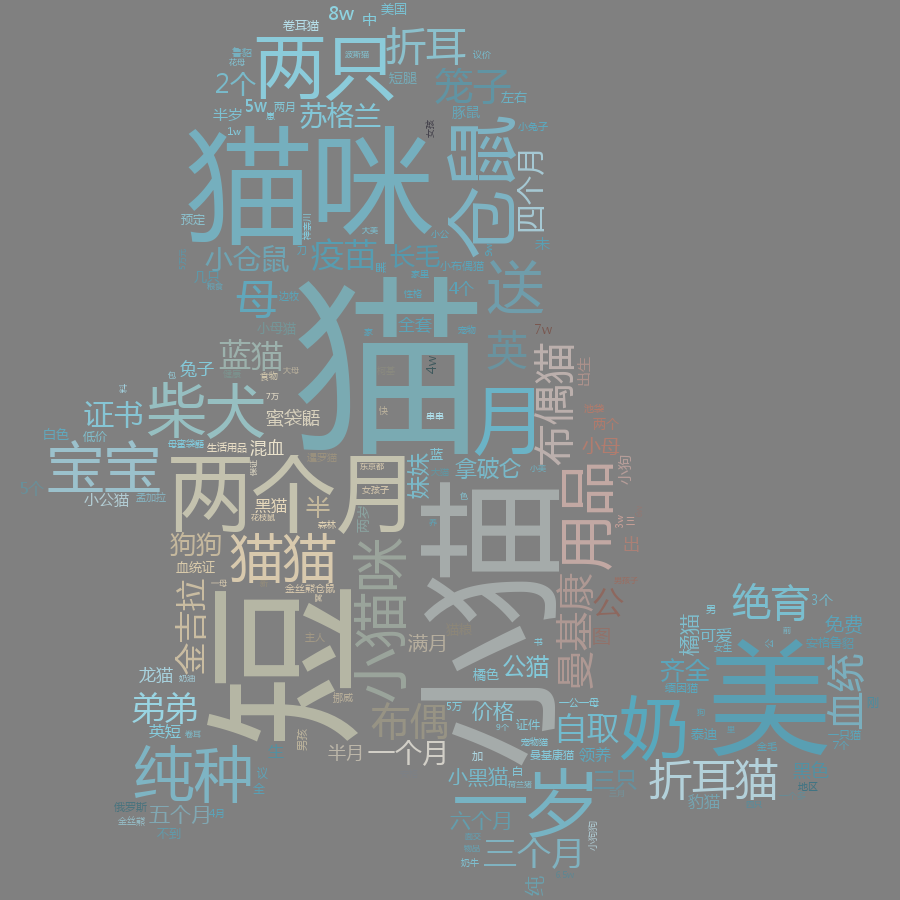
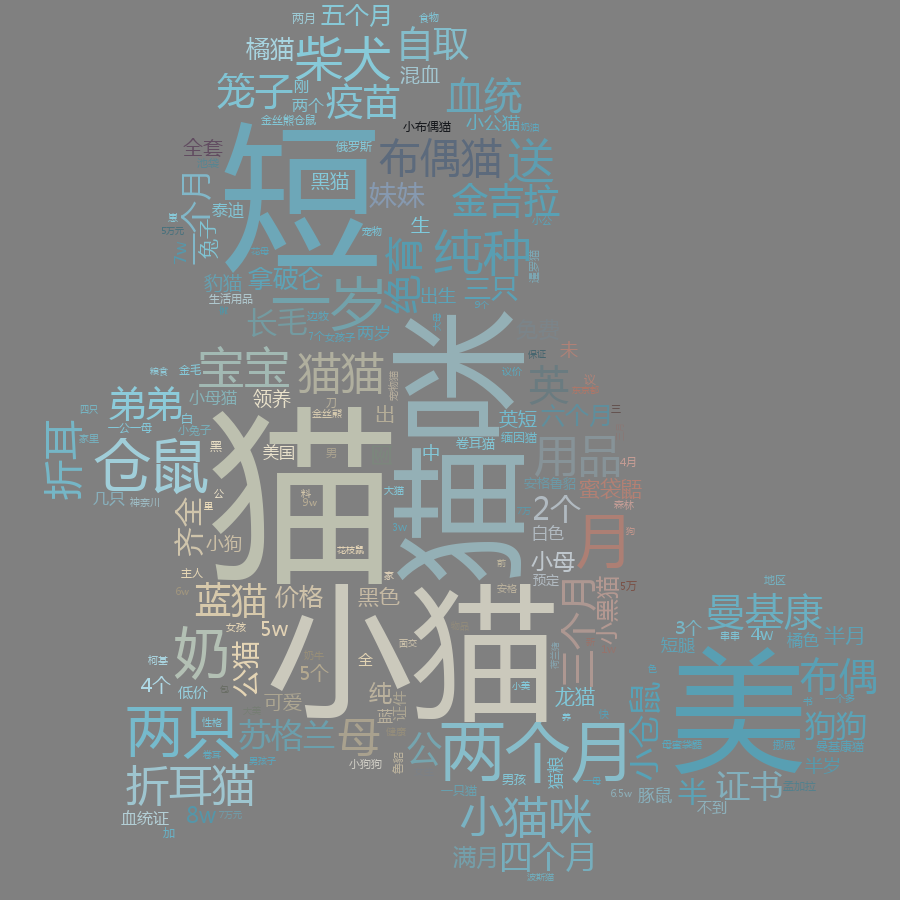
add results

Changed region(s): [[0.0311, 0.0, 0.9956, 0.9956]]

diff --git a/analyzer/analyzer.py b/analyzer/analyzer.py
@@ -7,6 +7,8 @@ import random
 import matplotlib.pyplot as plt
 from collections import defaultdict, Counter
 from scipy.ndimage import gaussian_gradient_magnitude
+import extract_clean
+import seg
 
 
 def create_stopwords(path):
@@ -14,7 +16,8 @@ def create_stopwords(path):
         stop = set([line.rstrip('\n') for line in f])
     stop.update(['二手', '一个', ' ', '一起', '一起去', '一起玩', '伙伴', '小伙伴', '喜欢', '朋友', '玩',
                  '租', '附近', '日本', '地方', '有没有', '找', '一只', '回国', '回', '近期', '飞', '带',
-                 '帮带', '最近', '东西', '前辈', '专业', '学校', '学', '店', '东京'])
+                 '帮带', '最近', '东西', '前辈', '专业', '学校', '学', '店', '东京',
+                 '左右', '最好'])
     return stop
 
 
@@ -59,6 +62,8 @@ def freAna(data):
 
 
 if __name__ == "__main__":
+    extract_clean.main()
+    seg.main()
     data = util.read_data('../data/seg.json')
     fre_d = freAna(data)
     for i, k in enumerate(util.CATEGORY):
